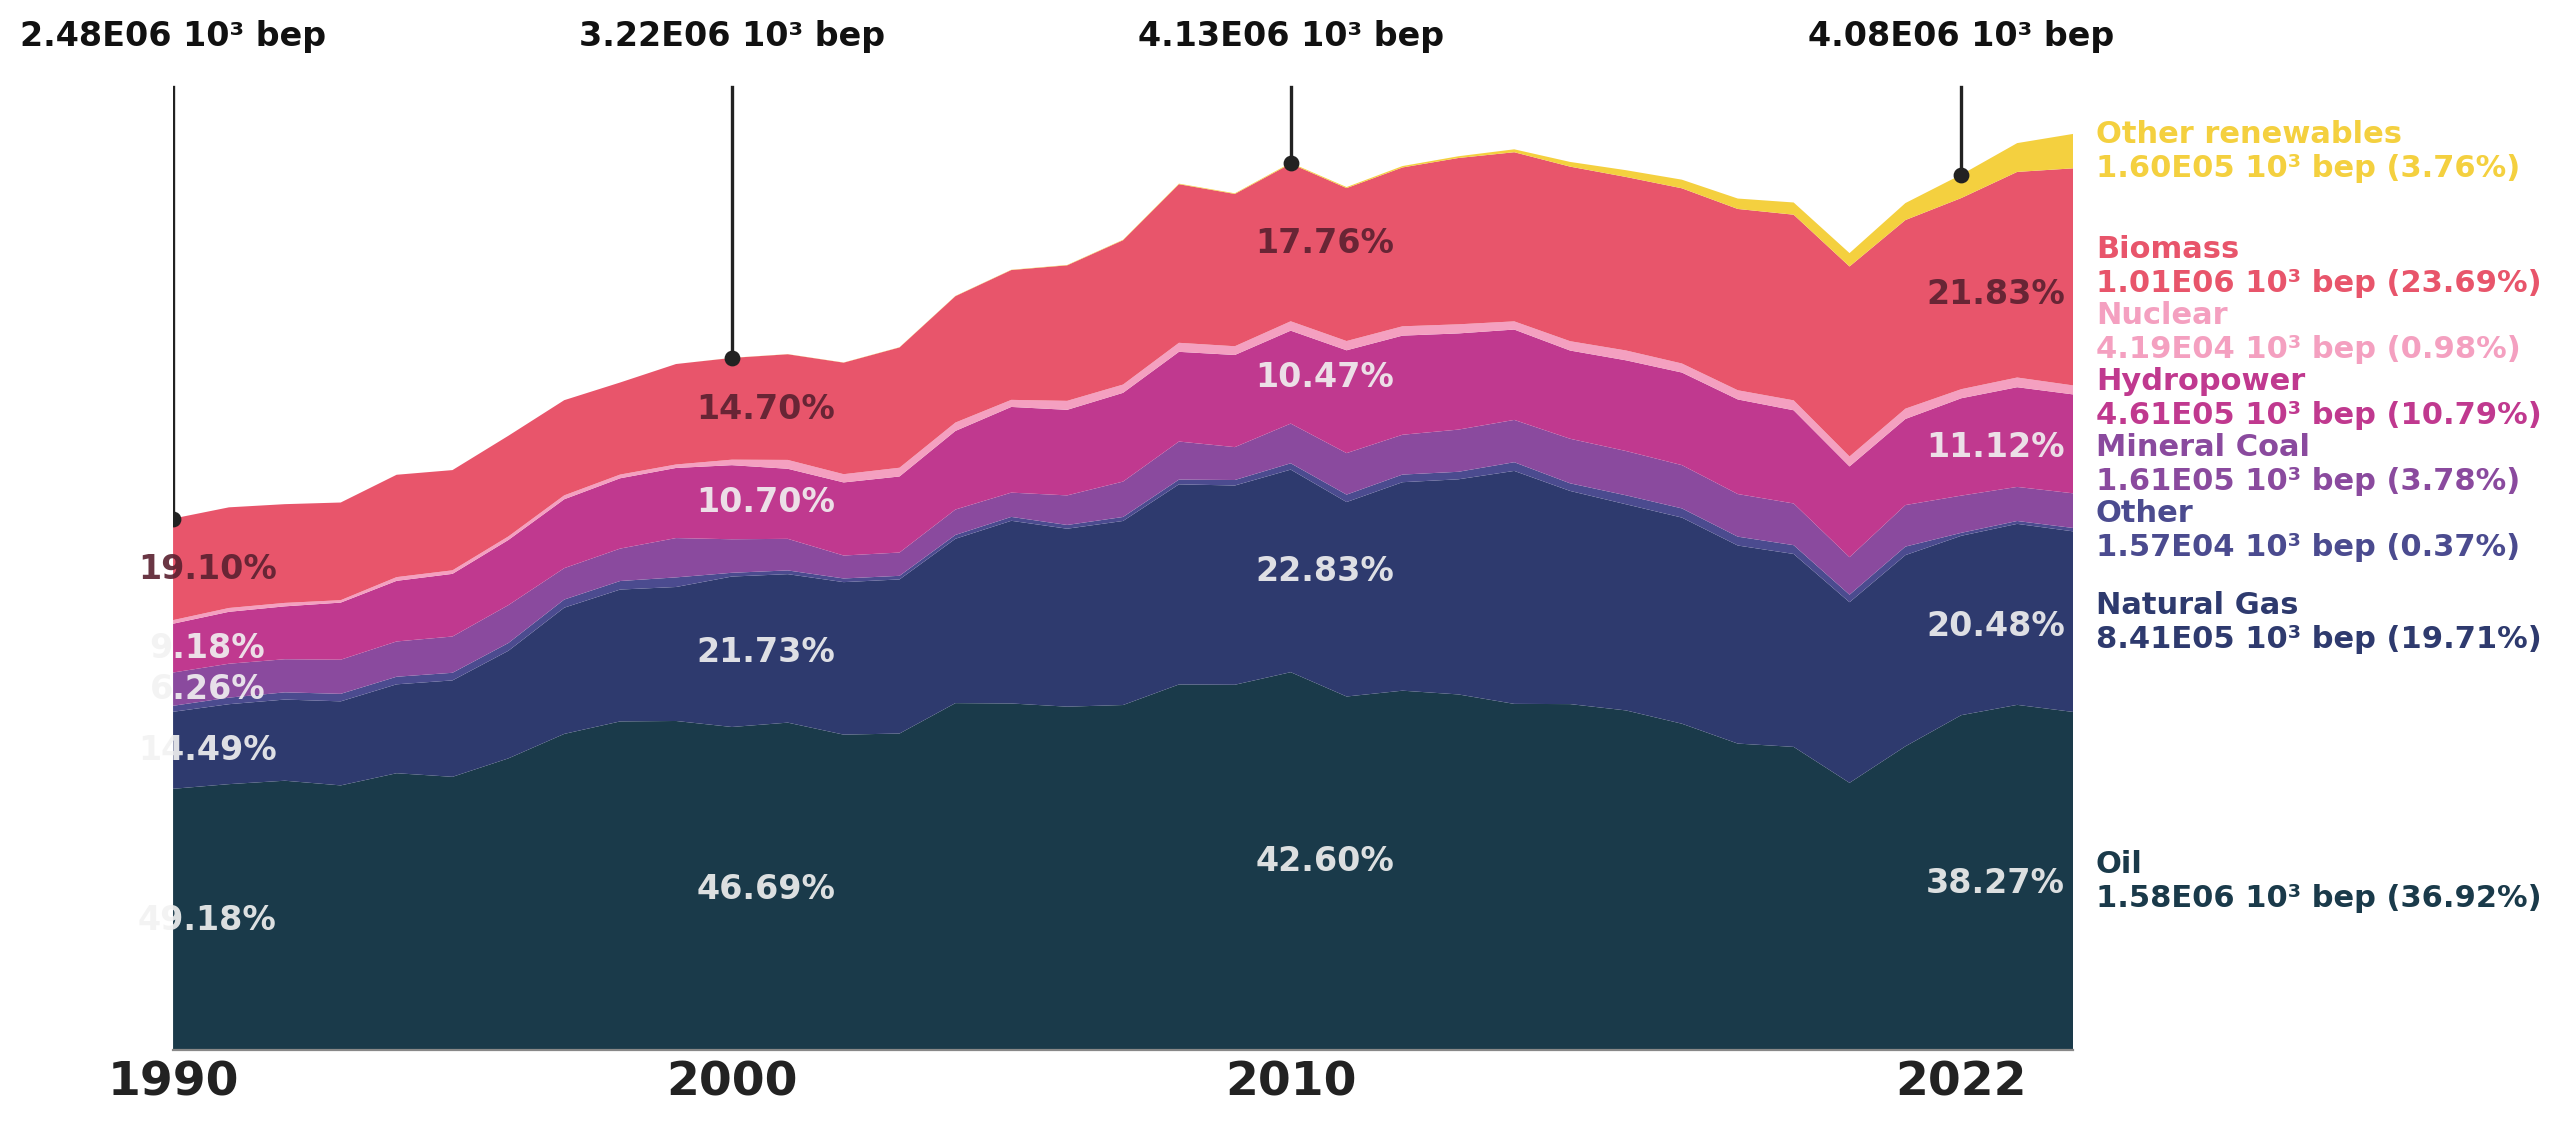
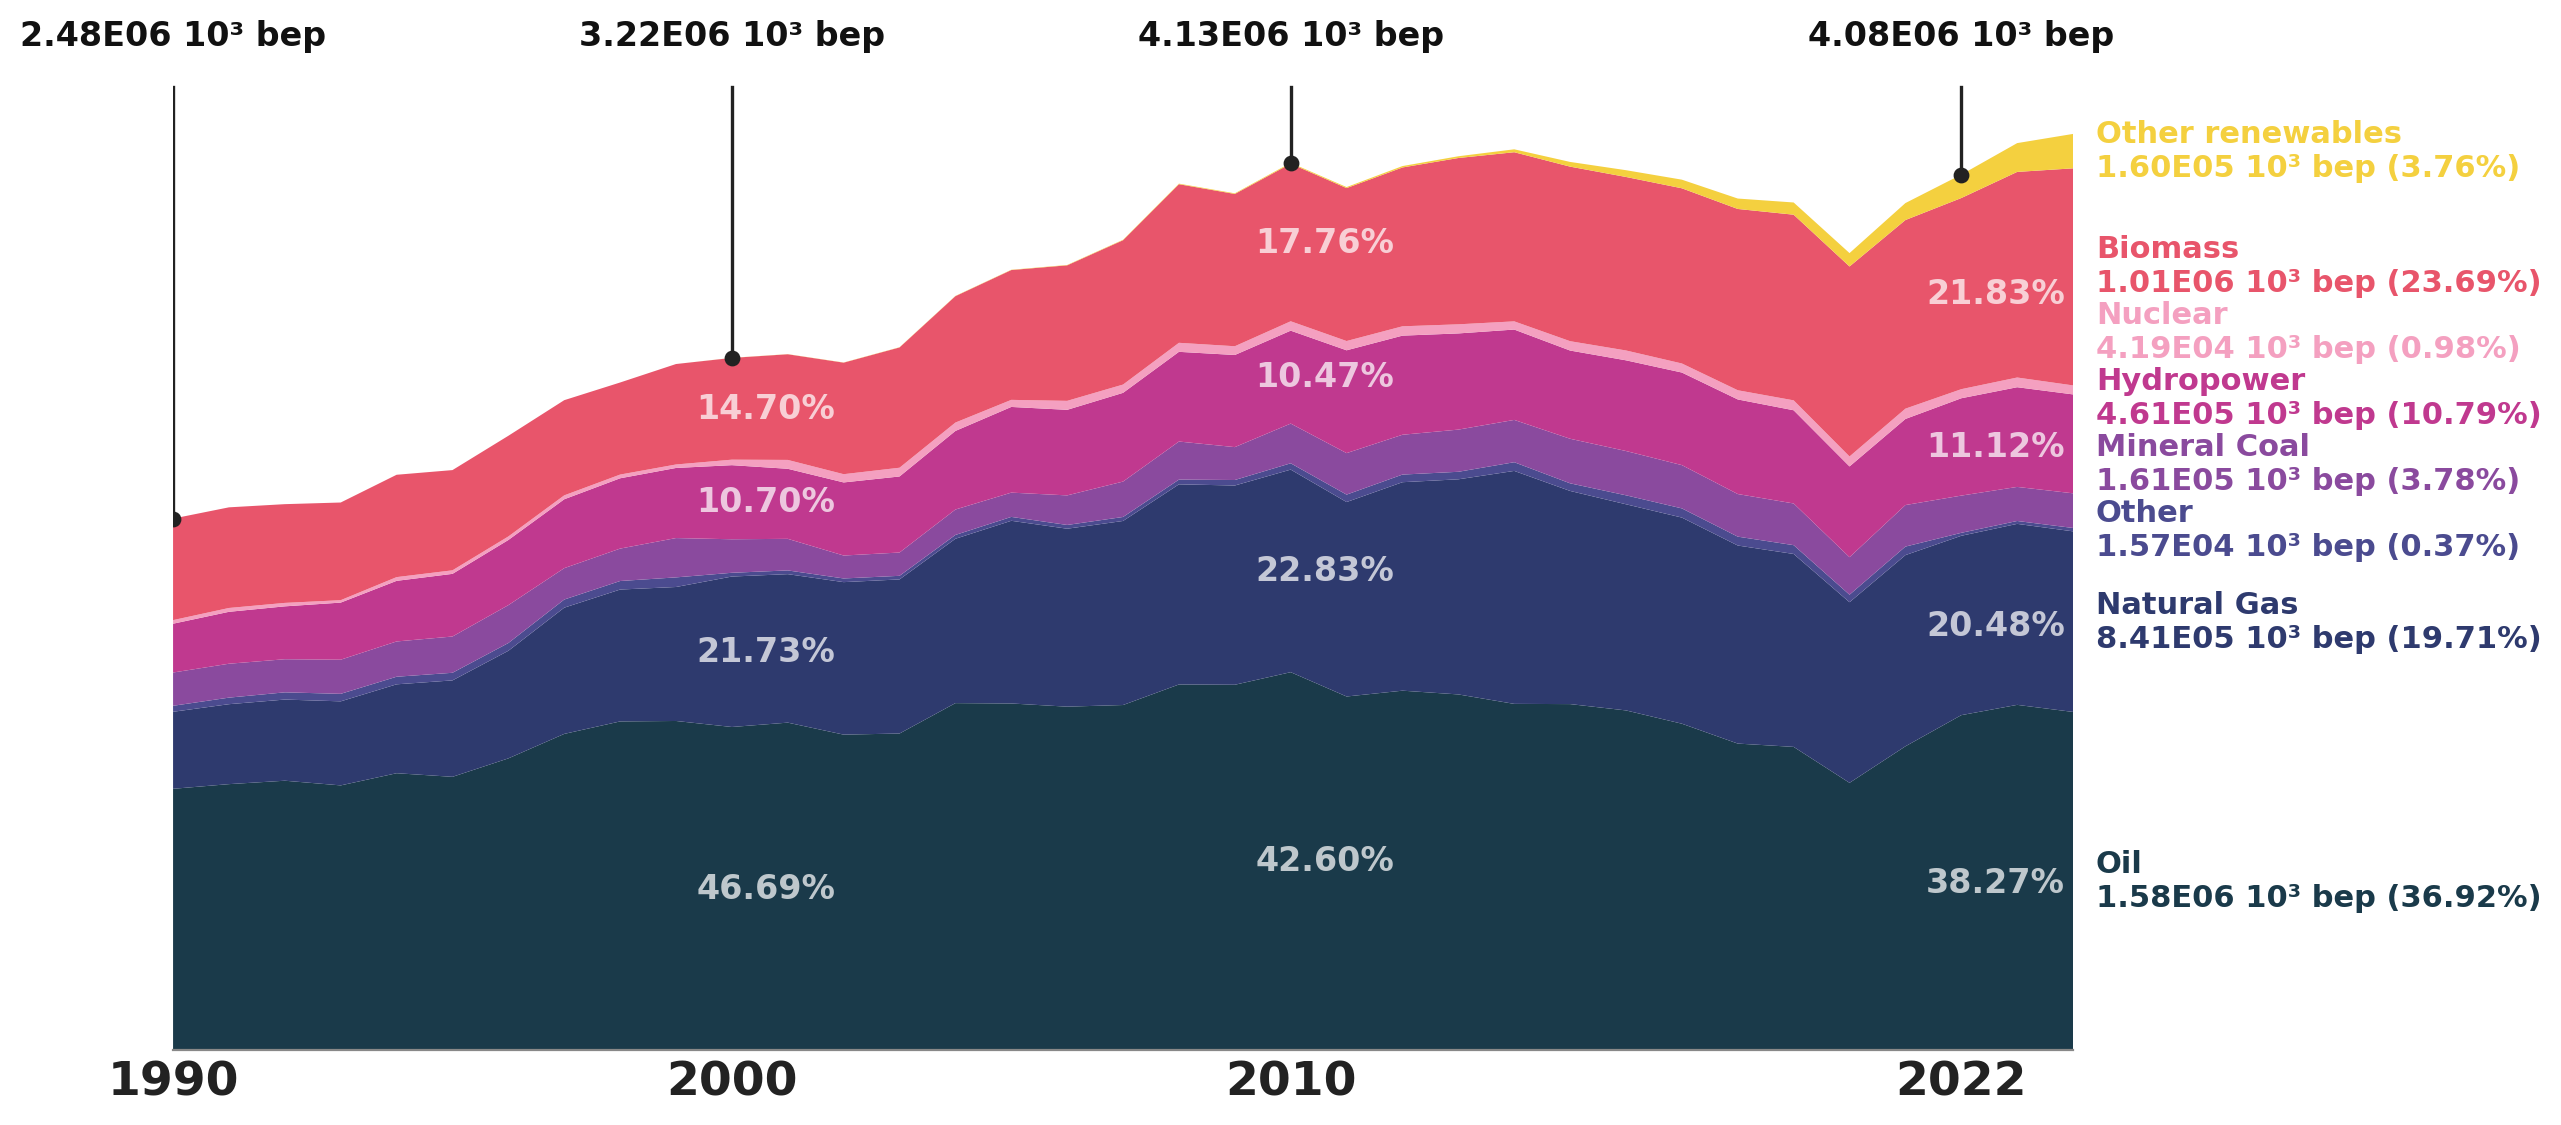
style(fig1): restyle energy-matrix figure to match reference

diff --git a/notebooks/08_fig1_energy_matrix.py b/notebooks/08_fig1_energy_matrix.py
@@ -117,6 +117,15 @@ def _darken(hex_color, factor=0.62):
     return f"#{r:02x}{g:02x}{b:02x}"
 
 
+def _lighten(hex_color, factor=0.72):
+    """Return a lighter tint of a hex colour (blend toward white) for
+    legible, on-tone inline labels that are not pure white."""
+    h = hex_color.lstrip("#")
+    r, g, b = (int(h[i:i+2], 16) for i in (0, 2, 4))
+    r, g, b = (int(c + (255 - c) * factor) for c in (r, g, b))
+    return f"#{r:02x}{g:02x}{b:02x}"
+
+
 def make_figure(df, group_cols, outfile):
     # ---- typography & canvas ------------------------------------------------
     plt.rcParams.update({
@@ -192,13 +201,15 @@ def make_figure(df, group_cols, outfile):
                 color="#111111")
 
     # ---- inline % labels on the big bands at selected years -----------------
-    # Subtle, integrated into each band (no halo, no bold) — matches reference.
+    # Each label is a light tint of its own band colour (not pure white), which
+    # keeps contrast on dark bands while staying on-tone.
+    skip_years = {df.index.min(), df.index.max()}  # crowded edges -> no labels
     for yr in LABEL_YEARS:
         if yr not in df.index:
             continue
-        # skip inline % on the final year — that share is already shown in the
-        # external right-hand labels, and printing it here collides with them
-        if yr == df.index.max():
+        # first year: thin bands crowd the left edge and white text disappears;
+        # last year: shares already shown in the external right-hand labels
+        if yr in skip_years:
             continue
         idx = df.index.get_loc(yr)
         xi = float(yr)
@@ -207,12 +218,10 @@ def make_figure(df, group_cols, outfile):
             if share < INLINE_PCT_MIN:
                 continue
             y_mid = (band_bottom[g][idx] + band_top[g][idx]) / 2.0
-            # light, slightly translucent text reads on every band tone
-            dark_bands = {"Oil", "Natural Gas", "Other", "Mineral Coal", "Hydropower"}
-            txt_color = "#f2f2f2" if g in dark_bands else "#5a2030"
-            x_off = (xmax - xmin) * 0.018   # nudge labels slightly to the right
+            txt_color = _lighten(GROUP_COLORS[g])   # light tint of the band tone
+            x_off = (xmax - xmin) * 0.018           # nudge slightly to the right
             ax.text(xi + x_off, y_mid, f"{share:.2f}%", ha="center", va="center",
-                    fontsize=12, fontweight="bold", color=txt_color, alpha=0.9)
+                    fontsize=12, fontweight="bold", color=txt_color)
 
     # ---- axis cosmetics -----------------------------------------------------
     ax.set_yticks([])                      # no y-axis ticks (matches the image)
@@ -241,3 +250,4 @@ if __name__ == "__main__":
     group_cols = list(GROUPS.keys())
     make_figure(df, group_cols, OUTF / "fig1_energy_matrix.png")
     print(f"\nSaved -> {OUTF/'fig1_energy_matrix.png'}")
+    
